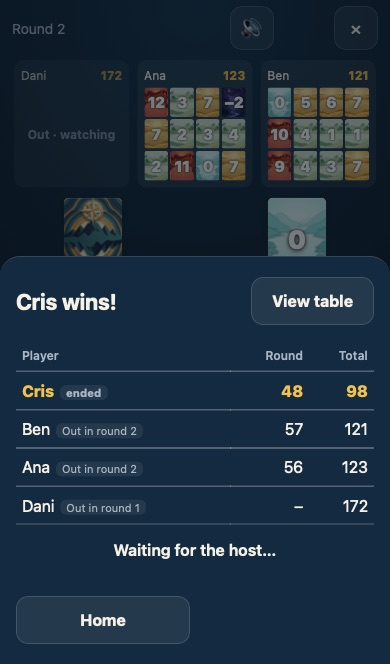
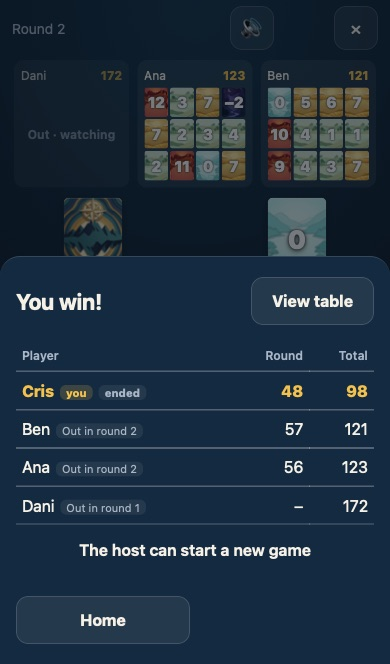
chore: release 2.3.0: CHANGELOG, README images, M13 screenshots, PLAN

diff --git a/e2e/readme.spec.ts b/e2e/readme.spec.ts
@@ -50,7 +50,8 @@ test("README stills", async ({ browser, page }, info) => {
   await page.getByTestId("opponent").first().click();
   await expect(page.getByTestId("zoom")).toBeVisible();
   await shot(page, "zoom");
-  await show(page, { view: toView(roundOver(2, 11)), seat: 0, lead: true });
+  // Ranked from the lowest total, your row tagged, and the ender doubled (UX-14).
+  await show(page, { view: toView(roundOver(4, 4)), seat: 2, lead: true });
   await shot(page, "summary");
 
   // Play until one is left (R16), seed 1: Dani goes out after round 1; Cris is the one left.

diff --git a/docs/PLAN.md b/docs/PLAN.md
@@ -613,7 +613,7 @@ Queued UX milestones after M20, each with its acceptance:
     - **Not required (visual nit).** The card taken from the discard is lifted (UX-21), so it covers the bottom ~9 px of the active panel above it in the watching layout. For players it overlaps the strip by about 7 px.
     - **Scores:** Rules correctness 5, Mobile UX 5, Visual polish 5, Multiplayer stability 5, Security N/A (client and tests only), Code health 5, Delivery health 5, Game feel 5.
     - **After the merge: the live smoke test flaked.** Run 40308080782 was green through deploy. Then smoke's "a round runs to its summary" threw `table stalled` after 36.7 s and passed on retry in 7.1 s. `failOnFlakyTests` failed the job, so the release waited for a rerun (`gh run rerun --failed`): v2.2.6 went out about 6 min late. Of the 16 smoke runs in the last 25 runs on `main`, it is the first to fail on the first try. See M13's first commit.
-- **M13, round summary and game over (v2.3.0).**
+- **M13, round summary and game over (v2.3.0) · ✅ shipped (PR #33).**
   - **First commit, test and CI only (delivery health, PO PR #31).** Make a failing live smoke test explain itself, then remove the likely cause.
     - **What the failed attempt shows.** Thanks to M12's fixture, its 2 screenshots are its own phones. Ana has ended the round. Ben's pill reads "Ben · auto": the server ran out his 30 s turn clock, at bot speed, and switched on Auto-play. His page no longer calls it his turn, so neither bot moves, and 100 idle loops can pass before his auto steps (2 s, then 1.2 s) come.
     - **What it doesn't show.** Why Ben sat 30 s on a turn. There is no trace, since traces are recorded on the first retry only and the retry passed. And nothing records the phones' sockets.
@@ -625,10 +625,11 @@ Queued UX milestones after M20, each with its acceptance:
     - **Done (PR #33, M13's first commit).** Each phone's socket closes are logged through a binding (time, phone, code, reason), attached to every test that opens phones, and printed when it fails. A real 1008 from the local Worker logged as "0.8 s · phone 2 · 1008 Too many messages". A route closing the socket or Chromium going offline logs nothing: neither fires a close the page sees. The stall check is now `playUntil` in `e2e/helpers.ts`, also used by `playToEnd`: no change in phase or seat to move for 15 s, with an error such as `table stalled for 15 s in draw, waiting on seat 1 (phone 1's pill: "Ben")`.
     - **Measured, not confirmed.** With a temporary log in `spend` against the local Worker at `http://[::1]` (production limits), the two smoke tests spent 70 units in 6 of 6 runs (3 in parallel, 3 one after the other): 56 for the round and 14 for the reload. That's 58% of the 120 a minute, under the plan's 80, so smoke keeps 2 workers. One worker wouldn't lower it anyway: both tests finish in 3–5 s locally (about 10 s live), inside one minute either way. Only a second run in the same minute crossed 120 (122 units, then 1008s). So the two tests can't reach the limit on their own. The next failed attempt's socket closes will show whether a 1008 came.
     - **PO tracks:** smoke passes on the first try on the next 3 merges to `main` (this PR's is the first).
-  - UX-11: `<dialog>.showModal()`, and Tab stays inside it.
-  - UX-14: rows sorted by M17's engine ranking (by total when knockout is off), with your row tagged.
-  - UX-17: "You win!" or "You placed 2nd", with a unit test for ties (R14 shares the win), plus confetti, none with reduced motion.
-  - A game-over cue of at least 1 s (CC0) that fires once, unit-tested through `soundsBetween`.
+  - ✅ UX-11: `<dialog>.showModal()`, and Tab stays inside it. **Done:** the table behind the summary is inert, and Escape is "View table". A modal alone let Tab out to the browser after its last button, and WebKit's Tab skips buttons, so Tab and Shift+Tab go round the sheet's buttons. It opens focused on itself, so screen readers read its title and no button looks chosen. Its dim is a plain layer under the toasts, so M10's "Reconnecting…" stays readable over it.
+  - ✅ UX-14: rows sorted by M17's engine ranking (by total when knockout is off), with your row tagged. **Done:** every summary sorts by `places()`, so players still in come by total and out players after them. Your row has the lobby's "you" tag.
+  - ✅ UX-17: "You win!" or "You placed 2nd", with a unit test for ties (R14 shares the win), plus confetti, none with reduced motion. **Done:** a tie for the win reads "You share the win!". Everyone else gets their place (en 1st/2nd/3rd through `Intl.PluralRules`, es "2.º", pt "2º") above who won. The winner gets 18 confetti pieces (transform and opacity only), which aren't rendered under reduced motion. Guests at game over read "The host can start a new game" instead of "Waiting for the host…".
+  - ✅ A game-over cue of at least 1 s (CC0) that fires once, unit-tested through `soundsBetween`. **Done:** two Kenney "Music Jingles" (CC0), steel drums, at the other cues' loudness (mean −22 dB): `win.mp3`, a rising run (1.44 s), and `end.mp3`, a falling run that lands (1.41 s). They play as the phase changes, so a later view of the same game over, or opening a finished game, stays silent.
+  - ✅ The M17 PO's moment for going out. **Done:** at the summary of the round you go out, "You're out · watching" replaces "Waiting for the host…", with `out.mp3` (a falling pizzicato, 0.84 s, CC0). While you watch, your note says the same instead of "You're watching this game".
 - **M14, round awareness (v2.4.0).**
   - UX-15: each player's sum of face-up cards, matching the engine (unit test on the `GameView`).
   - UX-16: "Beto starts: highest pair (17)" (R4, including the tie rule, and only among active players in knockout), and "Revealing your last card ends the round", shown exactly when you have one face-down card on your turn.
@@ -760,7 +761,7 @@ One PR at a time, in this order. M7 (PR #10) merged as v2.0.1 and is waiting for
 | 14  | ✅ M19                             | UX-8, UX-26, UX-30                                                                                                      | 2.2.4         | column removal you can follow                                                                                    |
 | 15  | ✅ M20                             | UX-28, the deal                                                                                                         | 2.2.5         | polish                                                                                                           |
 | 16  | ✅ M12                             | Spectators keep the piles; the out player's line (M17 PO)                                                               | 2.2.6         | minor                                                                                                            |
-| 17  | M13                                | UX-11, UX-14, UX-17, game-over cue                                                                                      | 2.3.0         | minor, new                                                                                                       |
+| 17  | ✅ M13                             | UX-11, UX-14, UX-17, game-over cue                                                                                      | 2.3.0         | minor, new                                                                                                       |
 | 18  | M14                                | UX-15, UX-16, last-round cue                                                                                            | 2.4.0         | minor, new                                                                                                       |
 | 19  | M15                                | UX-13                                                                                                                   | 2.4.1         | minor                                                                                                            |
 | 20  | M16                                | Launch in the App Store and Google Play                                                                                 | set at launch | last: the user wants the product final first                                                                     |
@@ -908,7 +909,7 @@ The user asked for a game option, **"Play until one is left"**, and approved the
   1. At game over the winner is tagged "Out in round 2" when everyone still in crossed 100 (D, E, F). The heading says "Cris wins!" and the row beside it says Cris is out. Show the tag only for players who aren't winners, and test that in a game where nobody is left.
   2. A player who may not lead sees the lobby switch exactly as the host does, bright and apparently live, but tapping it does nothing. Dim it when it is disabled.
 - **Follow-ups (not blocking, game feel):**
-  - Going out has no moment of its own: no sound and no line for you. Your summary row has the same small tag as everyone else's, and afterwards you get the stranger's line, "You're watching this game." Something like "You're out · watching" for the out player, plus a short sting at the summary where you go out, would make it feel part of the game. This fits M13's summary work.
+  - ✅ **Done in M13 (v2.3.0).** Going out has no moment of its own: no sound and no line for you. Your summary row has the same small tag as everyone else's, and afterwards you get the stranger's line, "You're watching this game." Something like "You're out · watching" for the out player, plus a short sting at the summary where you go out, would make it feel part of the game. This fits M13's summary work.
   - ✅ **Done in M12 (v2.2.6).** With 4 players, the out panel took a full grid's space with only a note in it. In the spectator layout that out players get, it is now one slim line under the players still in; the players' strip keeps the full panel.
 
 **PO review (PR #24, round 2): approved.**
@@ -974,7 +975,7 @@ Follow-ups from the M6 PO reviews (Game feel scored 4): one test gap, then game-
 - ✅ **Done in M8 (v2.1.0). → M8. Do first: an E2E for a full discard-and-flip turn.** Since PR #7, `botStep` swaps the drawn card into a face-down slot, so no E2E in CI, and not the live smoke test, ever finishes draw → discard → flip; "discard mode can be cancelled" only enters the mode and leaves it. Add one test on all 3 devices: draw, discard, flip, then check that one fewer card is face down, the drawn card is on the discard pile, and the turn has passed. The PO ran this as a throwaway spec in round 2: it passed in 2.2–3.1 s per device.
 - ✅ **Done in M8 (v2.1.0). → M8. Fix the race in `e2e/sound.spec.ts`.** It failed the `main` run for PR #8 on Pixel (run 40105073659), and `failOnFlakyTests` blocked that deploy. The check "Ben heard a sound after Ana's flip" already passes on the deal sound, so Ana's second tap can land before her first flip comes back and hit the same card: Ben's table then shows 1 face-up card, not 2. Wait for Ana's grid to show 1 face-up card before the second tap, and count sounds from after the deal (PO, PR #10 review).
 - **→ M9. Let the final reveal play before the round summary.** At round end the summary sheet is fully opaque 200 ms after the last move, while the R11 flips are still animating under it (4 running animations at 0 ms; WebKit, 2 phones). Nobody sees the last hidden cards turn over or who gets doubled. Hold the sheet about 1 s, or until the flips finish (no hold with reduced motion).
-- **A real game-over moment.** `public/sfx/end.mp3` lasts 0.16 s, a click rather than an ending (`win.mp3` is 0.52 s). Give game over a fuller cue.
+- ✅ **Done in M13 (v2.3.0). A real game-over moment.** `public/sfx/end.mp3` lasts 0.16 s, a click rather than an ending (`win.mp3` is 0.52 s). Give game over a fuller cue.
 - **Last-round cue.** When someone reveals their whole grid, only the header pill turns red. Play a short cue for everyone (and vibrate where supported), since everyone's next turn is now their last.
 - ✅ **Done in M12 (v2.2.6). Spectators lose the piles at 8 seats.** At 390×664 with 8 players, a spectator's deck, discard and drawn card were off screen on 16 of 16 turns while the table followed whoever was playing, and R6 makes the drawn card public. Keep the piles in view, for example above the grids.
 - ✅ **Done in M8 (v2.1.0). Nit:** `sound.ts` swallows decode errors in an empty `.catch` with no comment (the fetch's `.catch` now says why). (The CHANGELOG and AGENTS nits were fixed in PR #7.)

diff --git a/README.md b/README.md
@@ -12,9 +12,9 @@ A free, phone-first multiplayer card game based on Skyjo's mechanics. Open a lin
 | :----------------------------------------------------------------------------------------------------------------------------------------------------------------------------------------------------------: | :---------------------------------------------------------------------------------------------------------------------------------------------------------------------------------------------: | :-----------------------------------------------------------------------------------------------------------------------------------------------------------------------------: |
 |                                                      <img src="docs/readme/home.jpg" width="220" alt="Home screen with Create a room and Join by code">                                                      |                      <img src="docs/readme/lobby.jpg" width="220" alt="Lobby with the room code, invite link, four seated players and Play until one is left switched on">                      | <img src="docs/readme/table-4.jpg" width="220" alt="A four-player table on your turn: the pill reads Your last turn · 9 and an orange bar above your grid shows the time left"> |
 |                                                                                       **8 players, one on Auto-play**                                                                                        |                                                                                       **Tap an opponent**                                                                                       |                                                                                **Round summary**                                                                                |
-| <img src="docs/readme/table-8.jpg" width="220" alt="An eight-player table: a swipeable strip of opponents, the player to move ringed with 7 seconds left, and a robot by the name of a player on Auto-play"> |                                                     <img src="docs/readme/zoom.jpg" width="220" alt="One opponent's grid shown full size">                                                      |                           <img src="docs/readme/summary.jpg" width="220" alt="Round scores with the ender's doubled score shown as base ×2 = total">                            |
+| <img src="docs/readme/table-8.jpg" width="220" alt="An eight-player table: a swipeable strip of opponents, the player to move ringed with 7 seconds left, and a robot by the name of a player on Auto-play"> |                                                     <img src="docs/readme/zoom.jpg" width="220" alt="One opponent's grid shown full size">                                                      |  <img src="docs/readme/summary.jpg" width="220" alt="Round scores ranked from the lowest total, your row tagged you, and the ender's doubled score shown as base ×2 = total">   |
 |                                                                                    **Play until one is left: out at 100**                                                                                    |                                                                                       **Out · watching**                                                                                        |                                                                           **The last one left wins**                                                                            |
-|                                      <img src="docs/readme/knockout-summary.jpg" width="220" alt="A round summary where Dani reached 100 and is tagged Out in round 1">                                      | <img src="docs/readme/knockout-out.jpg" width="220" alt="Dani, out, watches the other three play: her seat is one slim Out · watching line under their grids, above the deck and discard pile"> |                  <img src="docs/readme/knockout-over.jpg" width="220" alt="Game over: Cris wins, then Ben and Ana, out in round 2, then Dani, out in round 1">                  |
+|                                      <img src="docs/readme/knockout-summary.jpg" width="220" alt="A round summary where Dani reached 100 and is tagged Out in round 1">                                      | <img src="docs/readme/knockout-out.jpg" width="220" alt="Dani, out, watches the other three play: her seat is one slim Out · watching line under their grids, above the deck and discard pile"> |              <img src="docs/readme/knockout-over.jpg" width="220" alt="Game over as Cris: You win!, above Ben and Ana, out in round 2, then Dani, out in round 1">              |
 
 The images come from the real app (`npm run shots:readme`) and are refreshed whenever the UI changes. See [`docs/PLAN.md`](docs/PLAN.md) for the roadmap and how it was built.
 
@@ -91,7 +91,7 @@ Read [`AGENTS.md`](AGENTS.md) for architecture, commands, conventions, and the P
 
 ## Credits
 
-Sound effects: [Kenney](https://kenney.nl) "Casino Audio" and "Interface Sounds" (CC0); the clock's tick is generated for this project. Card art and app icon are original, generated for this project.
+Sound effects: [Kenney](https://kenney.nl) "Casino Audio", "Interface Sounds" and "Music Jingles" (CC0); the clock's tick is generated for this project. Card art and app icon are original, generated for this project.
 
 ## License
 

diff --git a/CHANGELOG.md b/CHANGELOG.md
@@ -4,6 +4,20 @@ What changed for players, release by release. Format: [Keep a Changelog](https:/
 
 Every merge to `main` deploys to https://skyjo-online.jcarl-30.workers.dev. When the version in `package.json` is new, CI also tags it and publishes a GitHub Release with that version's section from this file, after the live smoke test passes.
 
+## [2.3.0] - 2026-10-26
+
+### Added
+
+- Game over is about you now. The winner reads "You win!" with a small burst of confetti, and everyone else sees where they finished, such as "You placed 2nd", above who won. Equal lowest totals read "You share the win!". It's in English, Spanish and Portuguese, with each language's own ordinals (2nd, 2.º, 2º). With reduced motion turned on in your phone's settings, there's no confetti.
+- Game over has its own music: a short steel-drum tune of about a second and a half, rising for the winner and falling for everyone else. Before, it was a short click.
+- In "Play until one is left", going out is a moment of its own. At the summary of the round where you reach 100, it says "You're out · watching" with a short sound, and while you watch the rest of the game your note says the same, instead of the line strangers get.
+
+### Changed
+
+- Every round summary now lists the players from the lowest total to the highest, the way the game ranks them, and marks your row "you". Before, it was in seat order, and only the final scores were ranked. In "Play until one is left", players who are out come after those still in.
+- After the game, guests read "The host can start a new game" instead of "Waiting for the host…", and a player who has just gone out isn't told to wait.
+- The summary is now a real dialog: with a keyboard, Tab stays on its buttons, and Escape shows the table (like "View table").
+
 ## [2.2.6] - 2026-10-26
 
 ### Changed
